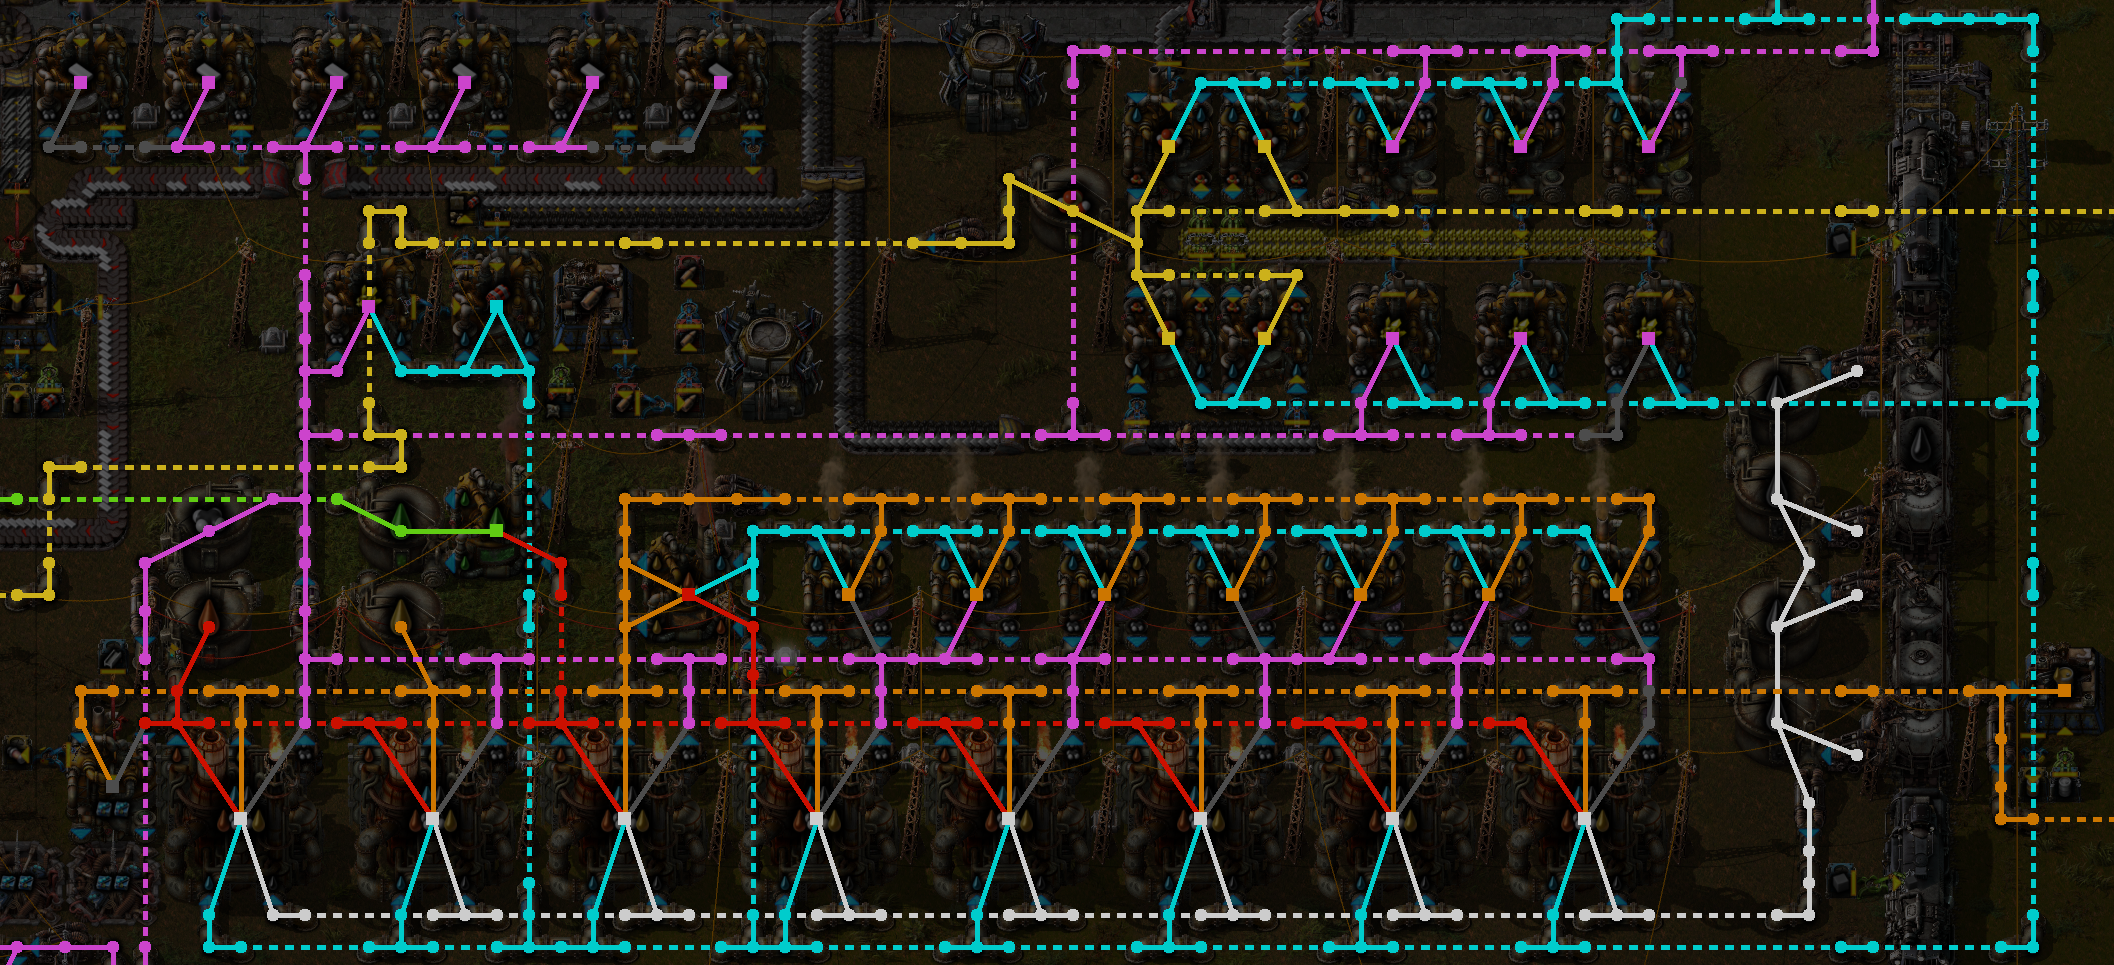
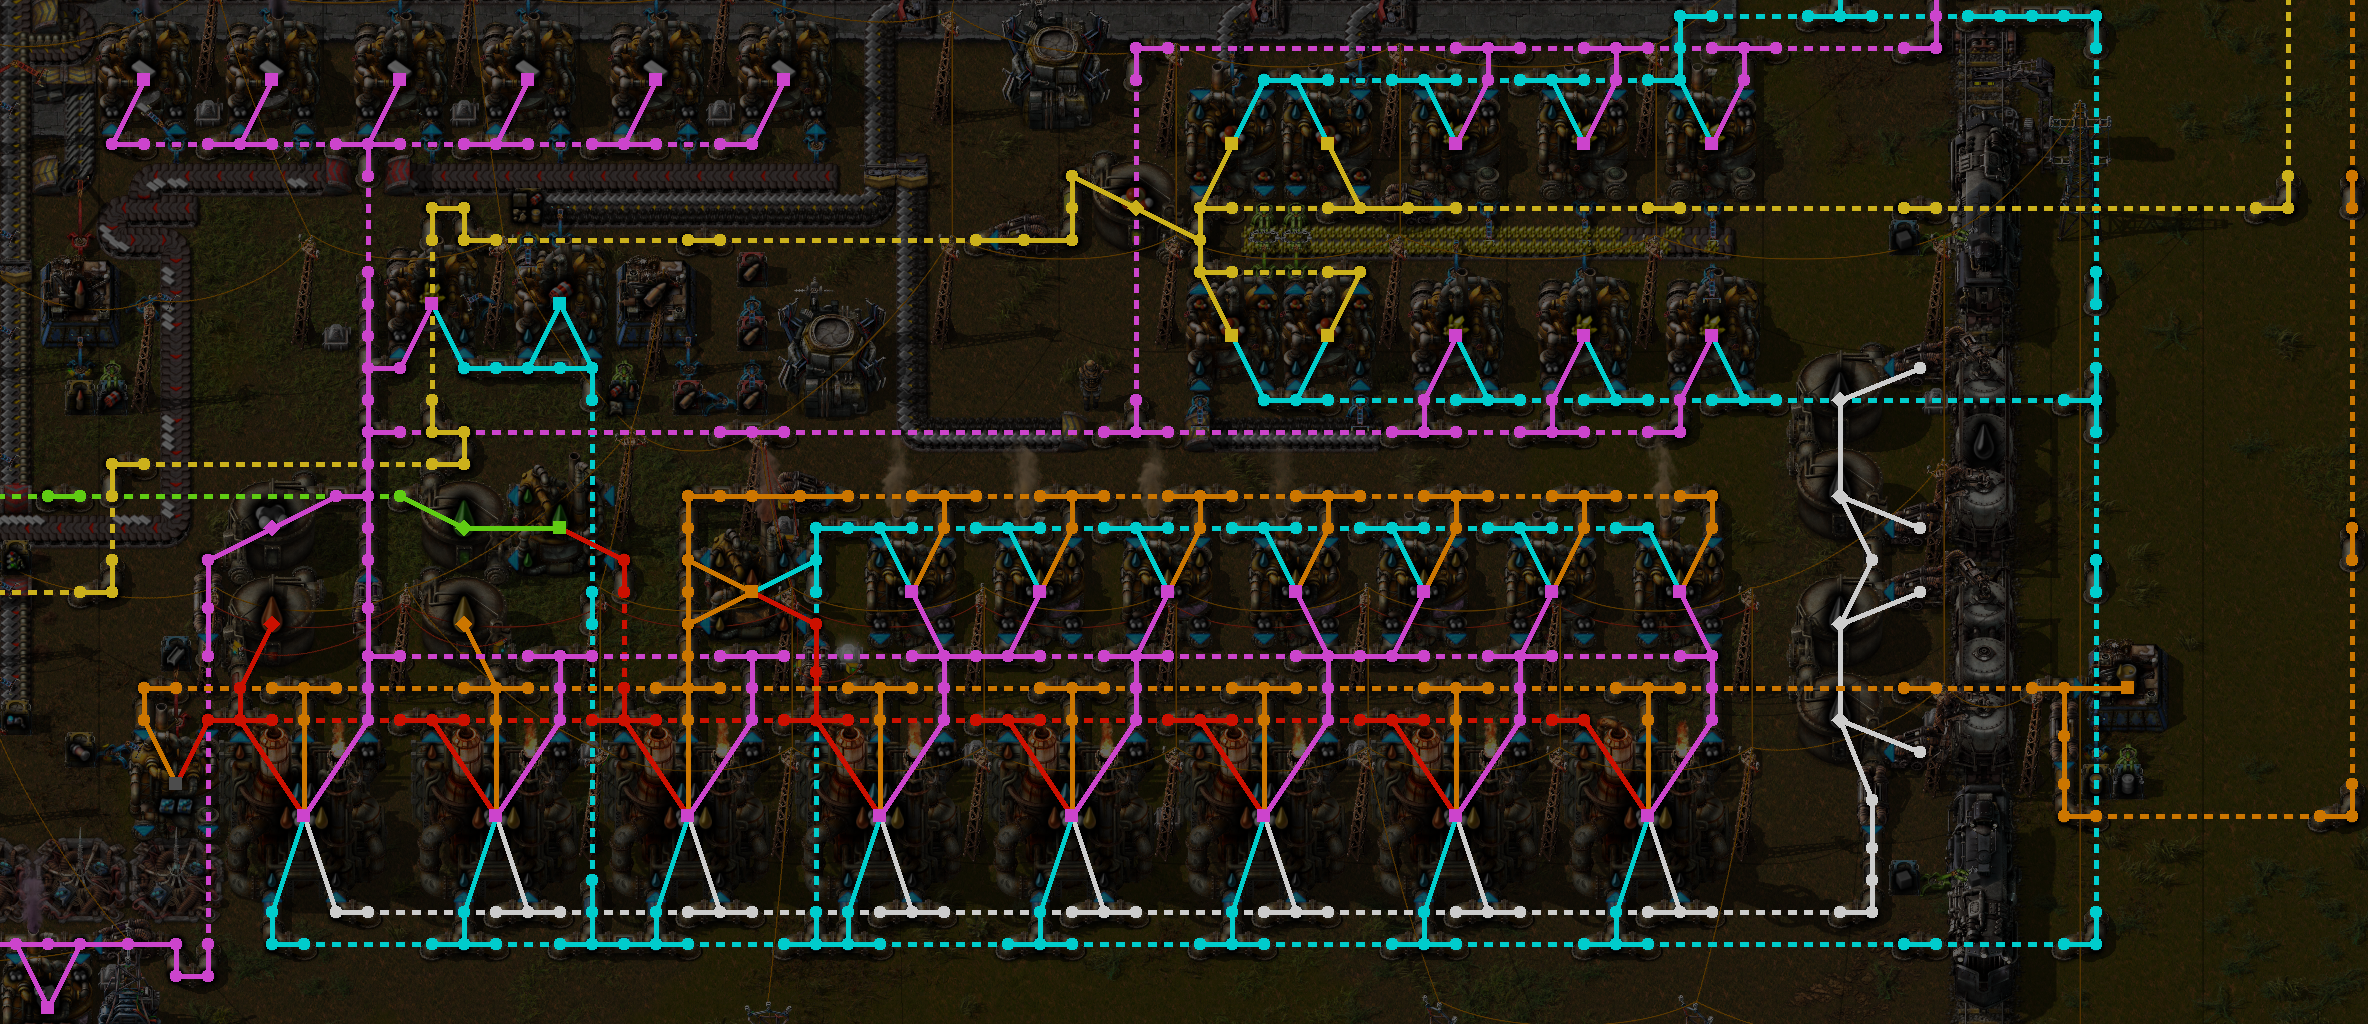
Add preview images

diff --git a/README.md b/README.md
@@ -6,6 +6,18 @@ Visualize the layout and fluids in Factorio pipe networks.
 
 Download on the official Factorio [mod portal](https://mods.factorio.com/mod/PipeVisualizer).
 
+## Features
+
+Toggle the pipe visualizer with `Control + P` or by using the shortcut button. Toggle between coloring by fluid and coloring by fluid system.
+
+![](screenshots/shortcuts-preview.png)
+
+![](screenshots/preview.png)
+
+Enable the hover-over visualizer to draw fluid systems when you hover over them:
+
+![](screenshots/hover-preview.png)
+
 ## Credits
 
 Shortcut icons were sourced from [icons8.com](https://icons8.com).
